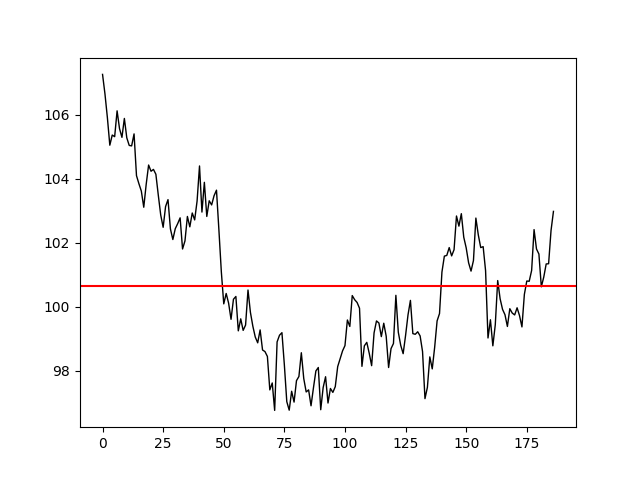
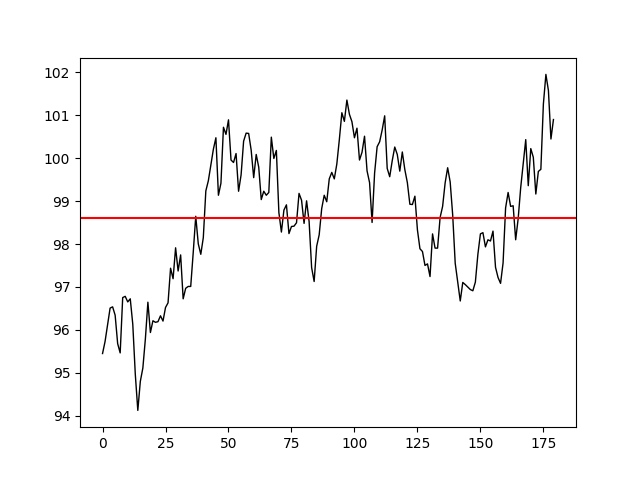
added some comments and updated README

diff --git a/simulation/car.py b/simulation/car.py
@@ -21,17 +21,17 @@ class Car:
 
 
     def updateVelocity(self):
-        #Check if you crash
+        # Check if the car crashes
         if(self.nextCar != None and self.nextCar.pos <= self.getFrontPostion() - 1):
             print("Crash: ", self.pos, self.nextCar.pos, self.nextCar.pos - self.pos)
         
-        #Make sure the code still works for the first car
+        # Make sure the code still works for the first car
         if(self.nextCar == None):
             distance = 9999999
         else:
             distance = self.nextCar.pos - self.getFrontPostion()
         
-        #The different cases 1) it is in tailgating distance 2) it is close, but not in tailgating distance, 3) it is far way 4) it is exactly at the correct distance
+        # The different cases 1) it is in tailgating distance 2) it is close, but not in tailgating distance, 3) it is far way 4) it is exactly at the correct distance
         if(self.isTokkie and self.nextCar != None and distance > Config.TOKKIE_DISTANCE and distance < self.calcMinDistance()):
            self.currentSpeed = min(self.currentSpeed + Config.ACCELERATION, self.currentSpeed + (distance - Config.TOKKIE_DISTANCE), self.maxSpeed)
         if(distance > self.calcMinDistance()):
@@ -49,7 +49,6 @@ class Car:
             self.currentSpeed = max(min(self.currentSpeed, distance - 1), 0)
         else:
             self.currentSpeed = min(self.currentSpeed, distance)
-        # self.currentSpeed = 0
 
     def randomize(self):
         if random.random() > self.chance:
@@ -74,13 +73,11 @@ class Car:
         return self.pos + Config.CAR_SIZE
 
     def getColor(self):
-        # if(self.isTokkie):
-        #     return (0, 0, 255)
-        # else:
-        #     return (255,0,0)
+        # Color a car red/green depending on its speed (red for slow; green for fast)
         return (int(255 - (self.currentSpeed / self.maxSpeed) * 255), int((self.currentSpeed / self.maxSpeed) * 255), 0)
 
     def calcMinDistance(self): 
+        # Calculate the minimum distance based on the current speed
         if(self.nextCar == None):
             return Config.MIN_DISTANCE + 1
         return int( self.currentSpeed*Config.REACTION_TIME + (self.currentSpeed * self.currentSpeed) / (2*Config.DECELERATION) - (self.nextCar.currentSpeed * self.nextCar.currentSpeed) / (2*Config.DECELERATION))

diff --git a/simulation/__init__.py b/simulation/__init__.py
@@ -8,6 +8,7 @@ from config import Config
 
 __all__ = ["simulation"]
 
+# Set up the simulation and UI
 random.seed(Config.SEED)
 
 dismissDelay = Config.TICKSPEED * Config.MAX_TICKS
@@ -31,11 +32,13 @@ def dismiss_sim(df):
     printGraphs()
 
 def printGraphs():
+    # Print info at the end of the simulation
     prop = int(Config.PROPORTION * 10)
     
     x = np.matrix(sim.HW.history)
     x *= 0.5
     
+    # Time-space diagram
     plt.ylim((50000/2,90000/2))
     plt.plot(x, color='black', linewidth=1)
     plt.gcf()
@@ -44,6 +47,7 @@ def printGraphs():
     plt.ylabel('Distance in meters')
     plt.show()
 
+    # Average speed plot
     avgSpeedTable = [((sum(i) / len(i)) * 1.8) for i in sim.HW.velocityHistory]
     plt.plot(avgSpeedTable, color='black', linewidth=1)
     plt.axhline(y=sum(avgSpeedTable) / len(avgSpeedTable), color='r', linestyle='-')
@@ -55,9 +59,8 @@ def printGraphs():
 
 
 def spawnSingleCar(df):
-    #HW.spawnCar(batch)
-    #if(HW.currentCars >= HW.maxCars):
     pyglet.clock.unschedule(spawnSingleCar)
+
 
 pyglet.clock.schedule_interval(spawnSingleCar, Config.TICKSPEED*3)
 pyglet.clock.schedule_interval(sim.calcNextTick, Config.TICKSPEED)

diff --git a/simulation/highway.py b/simulation/highway.py
@@ -15,11 +15,8 @@ class Highway:
     def spawnCars(self, batch):
         between = int(Config.MAX_SPEED * 2 + Config.MIN_DISTANCE)
         [self.spawnCar(batch, int(self.maxCars) * between - i * between) for i in range(int(self.maxCars))]
-        
-        # self.cars = self.cars[::-1]
 
     def spawnCar(self, batch, pos=0):
-    
         #check if the next car can be spawned at the position
         if(self.currentCars != 0 and self.cars[-1].pos == 0):
             return
@@ -51,14 +48,12 @@ class Highway:
         current = [self.getCarVelocity(i) for i in range(self.currentCars)]
         self.velocityHistory.append(current)
 
-    def step4(self):
-        [car.updatePosition() for car in self.cars]
-
     def allSteps(self):
         for car in self.cars:
             car.updateVelocity()
             car.randomize()
-        self.step4()
+        # This has to happen after all the new velocities have been calculated
+        [car.updatePosition() for car in self.cars]
 
     def drawCars(self):
         [car.drawCar() for car in self.cars]

diff --git a/config.py b/config.py
@@ -1,26 +1,29 @@
 
 class Config:
-	PROPORTION = 0.0 # 0.0 0.5 0.1 1.0
-	SEED = 42
+	# Proportion of tailgaters in the simulation (e.g. 0.1 means 10% tailgaters 90% normal drivers)
+	PROPORTION = 0.4 # 0.0 0.4 0.1 1.0
+	# Random seed
+	SEED = 4
 
 	START_VELOCITY = 50
 	MIN_DISTANCE = 80
 	MAX_SPEED = 75
-	TOKKIE_SPEED = 85
 	DECELERATION = 5
 	EMERGENCY_DECELERATION = 7
 	ACCELERATION = 6
-	IS_TOKKIE = False
-
+	# Chance for random deceleration
 	CHANCE = 0.56
+	# We refer to a tailgater as TOKKIE in our code
+	IS_TOKKIE = False
+	TOKKIE_SPEED = 85
+	TOKKIE_DISTANCE = 5
 
 	REACTION_TIME = 1.8
 
-	TOKKIE_DISTANCE = 5
 	CAR_SIZE = 15
 	CAR_HEIGHT = 4
 	
-	TICKSPEED = 0.02
+	TICKSPEED = 0.5
 	MAX_TICKS = 1000
 	DATA_SIZE = 500
 

diff --git a/README.md b/README.md
@@ -3,29 +3,69 @@
   <h1 align="center">BaD simulation</h1>
 
   <p align="center">
-    A Simulation of the Effects of Tailgating on Traffic Flow
+    A Simulation of the Effects of Tailgating on Traffic Flow.
   </p>
 </p>
 
 ## About The Project
-In this project we extend the NaSh model with tailgaters.
+In this project we extend the NaSh model with tailgaters. This model is called the Bugel and Dijkstra model (BaD model).
 
 ## Getting Started
-Install a virtual environment. 
-pip install all of the packages defined in requirements.txt
-And then run python startSimulation.py
+For this project we are using Python 3
 
-In the config file you can change different parameters of the model, which is also done in the paper.
+Open the terminal and navigate to the root folder of the project.
+Next, navigate to the src folder.
+
+When you download Python, pip will automatically be installed. In order to make sure that pip is up to date, we can use the following command:
+
+```
+  python3 -m pip install --upgrade pip
+```
+
+First we will set up the virtual environment for python:
+```
+  python3 -m venv env
+```
+
+And we activate it using
+
+```
+  source env/bin/activate
+```
+
+Next we will install all the necessary packages. These packages are defined inside the requirements.txt
+
+```
+  pip install -r requirements.txt --no-cache-dir
+```
+
+If the above command did not work, try instead
+
+```
+  python3 -m pip install -r requirements.txt --no-cache-dir
+```
+
+Finally to run the application you can run
+```
+  python3 startSimulation.py
+```
+
+In the config file you can change different parameters of the model.
+The parameters as they are in the config file are also the ones used in the paper.
 
 ## Overview
-The simulation excist of three subclasses
-### Simulation
-The backbone of the simulaion, the starting point to start running the simulation (together with the \_\_init__ file).
+The simulation is composed of three important classes.
 
-### Hightway
-The highway, which concists of all cars, and does all the steps for all the cars.
-It also saves the history for the final plots
+### Simulation
+
+The backbone of the simulation, the starting point to start running the simulation (together with the \_\_init__ file).
+
+### Highway
+
+The highway, which consists of all cars, and executes all the simulation steps for all the cars.
+It also keeps track of the data so that this can be used for the final plots.
 
 ### Car
+
 The car class has the current position and velocity of the car.
-It also knows wether or not it is a 'Tokkie', also all steps are defined here, which are called from the highway class.
+It also knows wether or not it is a 'Tokkie' (Tailgater), also all steps are defined here, which are called from the highway class.
